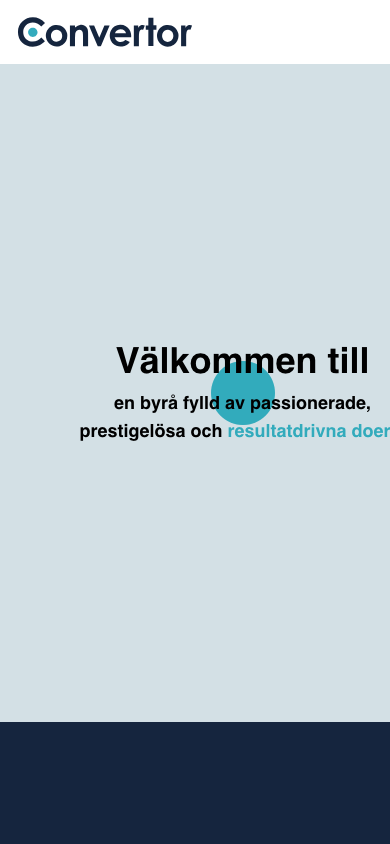
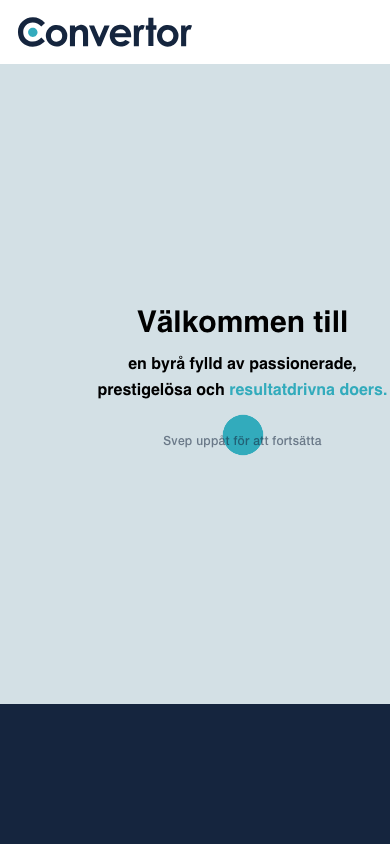
docs: refresh README screenshots after mobile hero fixes
Replace desktop and mobile captures (390×844) and document responsive hero work.

Changed region(s): [[0.1846, 0.3697, 1.0, 0.5545], [0.0, 0.8318, 1.0, 0.8626]]

diff --git a/README.md b/README.md
@@ -2,7 +2,9 @@
 
 Scroll-driven brand story microsite for **[Convertor Svenska AB](https://convertor.se/)** (Malmö), built during a **frontend internship (February–May 2024)**. The experience keeps the original agency palette and narrative sections while running on a modernized **Next.js** stack with smoother motion and stable touch/scroll hero interaction.
 
-![Hero — desktop](./docs/screenshots/hero-desktop.png)
+| Desktop (1440px) | Mobile (390px) |
+| --- | --- |
+| ![Hero — desktop](./docs/screenshots/hero-desktop.png) | ![Hero — mobile](./docs/screenshots/hero-mobile.png) |
 
 ## Live site
 
@@ -43,6 +45,7 @@ Navigation and footer link to the real agency site ([convertor.se](https://conve
 - Custom scroll + touch hero without heavy animation libraries
 - Intersection-based reveals, accent underlines, and subtle parallax blobs
 - Accessible patterns (`prefers-reduced-motion`, semantic landmarks, external links)
+- Responsive hero with wrapped copy, capped ellipse scale, and touch-friendly scroll on small screens
 - Continuous deployment on Netlify from `main`
 
 ## Tech stack
@@ -90,10 +93,13 @@ Historical semver tags are mirrored to `deploy/v*` branches (see [`.github/workf
 
 ## Screenshots
 
-| View | |
+Captured from the current production build (June 2026) after the mobile hero layout and touch-scroll fixes.
+
+| View | Preview |
 | --- | --- |
 | Desktop hero | ![](./docs/screenshots/hero-desktop.png) |
-| Mobile hero | ![](./docs/screenshots/hero-mobile.png) |
+| Mobile hero (390×844) | ![](./docs/screenshots/hero-mobile.png) |
+| Full page (desktop) | ![](./docs/screenshots/full-page-desktop.png) |
 
 ## Repository naming
 